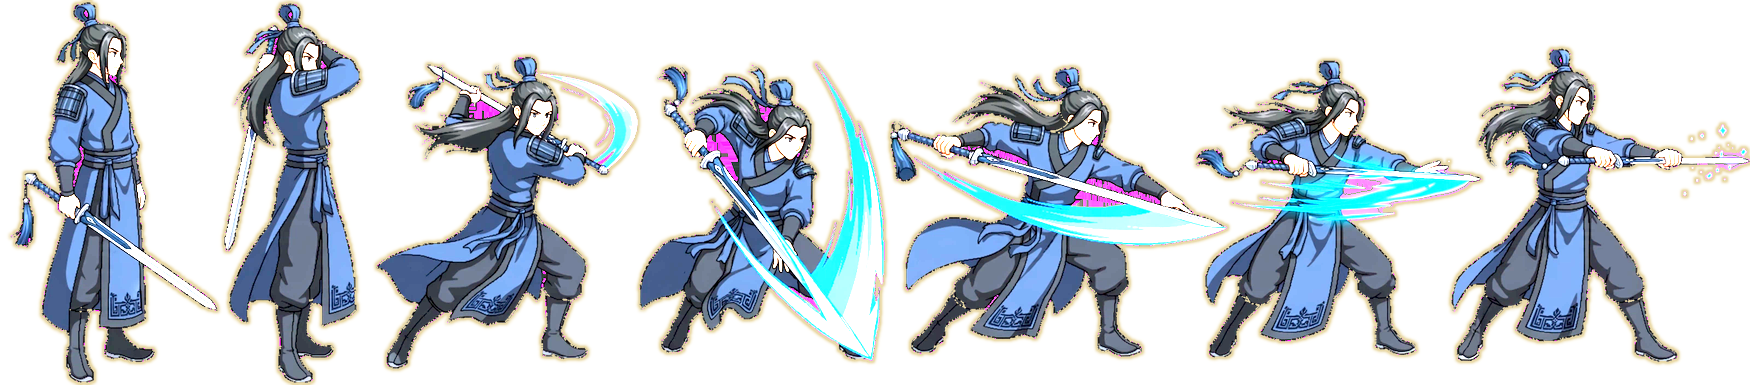
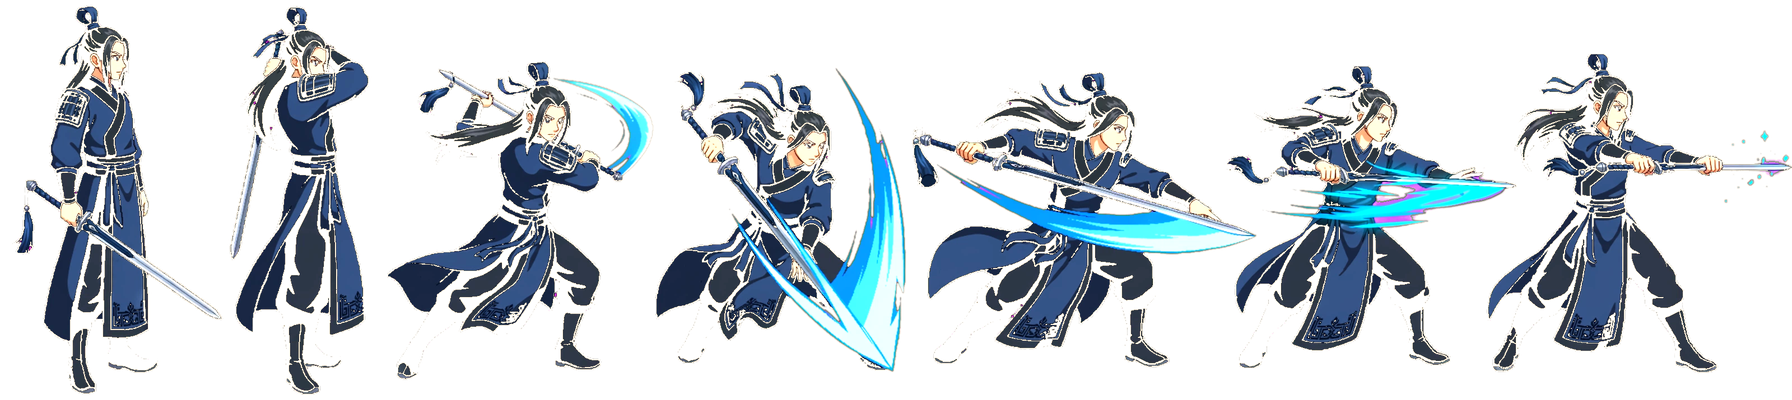
fix: 戰鬥左側改用小全身連招 sheet，停用大型立繪
黑底轉透明並微提亮／淡描邊；idle 顯示第 1 幀，攻擊播放 7 幀後回 idle；舞台高度約 180px。

diff --git a/styles.css b/styles.css
@@ -248,14 +248,14 @@ legend { padding: 0 6px; color: var(--accent); font-size: 13px; }
   flex-direction: column;
   align-items: center;
   justify-content: flex-end;
-  min-height: 240px;
+  min-height: 210px;
   transition: transform 0.12s ease;
 }
 .fighter .shadow {
   position: absolute;
-  bottom: 26px;
-  width: 56px;
-  height: 12px;
+  bottom: 22px;
+  width: 48px;
+  height: 10px;
   border-radius: 50%;
   background: rgba(0,0,0,0.35);
   z-index: 0;
@@ -270,53 +270,30 @@ legend { padding: 0 6px; color: var(--accent); font-size: 13px; }
   filter: drop-shadow(0 4px 6px rgba(0,0,0,0.35));
 }
 #fighter-hero .sprite {
-  width: 140px;
-  height: 220px;
+  /* 小全身連招 sprite：約 160～200px 高，勿用大型半身立繪 */
+  width: 116px;
+  height: 180px;
   align-items: end;
-  /* 淺色光暈改由立繪本身 filter，避免雙重陰影過暗 */
   filter: none;
 }
 .hero-art {
-  width: 100%;
-  height: 100%;
-  min-height: 200px;
-  display: flex;
-  align-items: flex-end;
-  justify-content: center;
+  /* 同一張 7 幀 sheet：idle = 第 0 幀；攻擊由 JS 切 background-position */
+  width: 116px;
+  height: 180px;
+  margin: 0 auto;
   pointer-events: none;
   transform-origin: center bottom;
   position: relative;
   overflow: hidden;
-}
-.hero-art #hero-idle-img {
-  display: block;
-  width: 100%;
-  height: 100%;
-  object-fit: contain;
-  object-position: center bottom;
-  image-rendering: auto;
-  filter:
-    drop-shadow(0 0 6px rgba(255, 236, 180, 0.85))
-    drop-shadow(0 0 14px rgba(220, 200, 140, 0.55))
-    drop-shadow(0 4px 8px rgba(0, 0, 0, 0.35));
-}
-.hero-art.attacking #hero-idle-img {
-  visibility: hidden;
-  position: absolute;
-}
-.hero-art.attacking {
-  /* 7-frame sheet driven by JS (background-position) */
-  width: 140px;
-  height: 220px;
-  margin: 0 auto;
   background-image: url("assets/hero_attack_sheet_display.png");
   background-repeat: no-repeat;
   background-size: 700% 100%;
-  background-position: 0 center;
+  background-position: 0% center;
+  image-rendering: auto;
   filter:
-    drop-shadow(0 0 6px rgba(255, 236, 180, 0.85))
-    drop-shadow(0 0 14px rgba(220, 200, 140, 0.55))
-    drop-shadow(0 4px 8px rgba(0, 0, 0, 0.35));
+    drop-shadow(0 0 5px rgba(255, 236, 180, 0.75))
+    drop-shadow(0 0 12px rgba(220, 200, 140, 0.45))
+    drop-shadow(0 3px 6px rgba(0, 0, 0, 0.4));
 }
 .fighter .figure {
   width: 80px;
@@ -334,7 +311,7 @@ legend { padding: 0 6px; color: var(--accent); font-size: 13px; }
 }
 .vs-mark {
   align-self: center;
-  margin-bottom: 72px;
+  margin-bottom: 56px;
   font-size: 18px;
   opacity: 0.55;
   color: var(--accent);
@@ -429,8 +406,7 @@ legend { padding: 0 6px; color: var(--accent); font-size: 13px; }
 .fighter.enemy-side.attacking { animation: lunge-left 0.28s ease; }
 .fighter.hit .sprite { animation: shake-hit 0.28s ease, flash-white 0.28s ease; }
 .fighter.dying .sprite { animation: die-fade 0.4s ease forwards; }
-.fighter.idle .sprite { animation: idle-bob 2.4s ease-in-out infinite; }
-.fighter.hero-side.idle.attacking .sprite,
+.fighter.idle:not(.hero-side) .sprite { animation: idle-bob 2.4s ease-in-out infinite; }
 .fighter.hero-side.attacking .sprite,
 .fighter.hit .sprite { animation: none; }
 .fighter.hero-side.idle .hero-art:not(.attacking) {

diff --git a/game.js b/game.js
@@ -561,19 +561,17 @@
 
   function playHeroAttackAnim() {
     const art = $('hero-art');
-    const idleImg = $('hero-idle-img');
     if (!art) return;
     if (heroAtkTimer) {
       clearInterval(heroAtkTimer);
       heroAtkTimer = null;
     }
     art.classList.add('attacking');
-    if (idleImg) idleImg.setAttribute('aria-hidden', 'true');
     let frame = 0;
-    // pixel shift: each frame is 1/7 of the 700%-wide sheet (= element width)
+    // 7 幀橫向 sheet：background-size 700% 時，第 f 幀用百分比定位
     const applyFrame = (f) => {
-      const w = art.clientWidth || 140;
-      art.style.backgroundPosition = (-f * w) + 'px center';
+      const pct = HERO_ATK_FRAMES <= 1 ? 0 : (f / (HERO_ATK_FRAMES - 1)) * 100;
+      art.style.backgroundPosition = pct + '% center';
     };
     applyFrame(0);
     heroAtkTimer = setInterval(() => {
@@ -582,8 +580,7 @@
         clearInterval(heroAtkTimer);
         heroAtkTimer = null;
         art.classList.remove('attacking');
-        art.style.backgroundPosition = '';
-        if (idleImg) idleImg.removeAttribute('aria-hidden');
+        applyFrame(0); // 回 idle（第 1 幀）
         return;
       }
       applyFrame(frame);

diff --git a/index.html b/index.html
@@ -76,9 +76,7 @@
           <div class="fighter hero-side" id="fighter-hero">
             <div class="shadow"></div>
             <div class="sprite" id="hero-sprite">
-              <div class="hero-art" id="hero-art">
-                <img id="hero-idle-img" src="assets/hero_idle_display.png" alt="主角" width="140" height="220" decoding="async" />
-              </div>
+              <div class="hero-art" id="hero-art" role="img" aria-label="主角"></div>
             </div>
             <div class="fighter-label" id="hero-stage-label">俠客</div>
           </div>

diff --git a/assets/README.md b/assets/README.md
@@ -1,7 +1,9 @@
 # assets
 
-- `hero_idle.png`：主角全身立繪（近黑底已轉透明，寬約 440px）
-- `hero_attack_sheet.png`：7 幀橫向攻擊表（總寬 1750，每格 250×385）
+- `hero_attack_sheet.png`：7 幀橫向連續攻擊表（黑底轉透明、微提亮／淡描邊；原圖約 3200×800）
+- `hero_attack_sheet_display.png`：同上，縮至約 1792×400 供舞台顯示
+- `hero_idle_frame.png`：第 1 幀裁切（可選；實際 idle 以 sheet 的 background-position 第 0 幀為主）
 - `sword.svg`：舊版小圖示
 
-戰鬥舞台左側以 CSS background 顯示 idle；攻擊時由 game.js 以 background-position 切換 7 幀。
+**注意：** 已停用大型半身／全身立繪（`hero_idle.png` / `hero_idle_display.png`）。
+戰鬥舞台左側只顯示此小全身連招 sprite（高度約 180px）：idle = 第 1 幀；攻擊時依序播放 7 幀後回第 1 幀。
